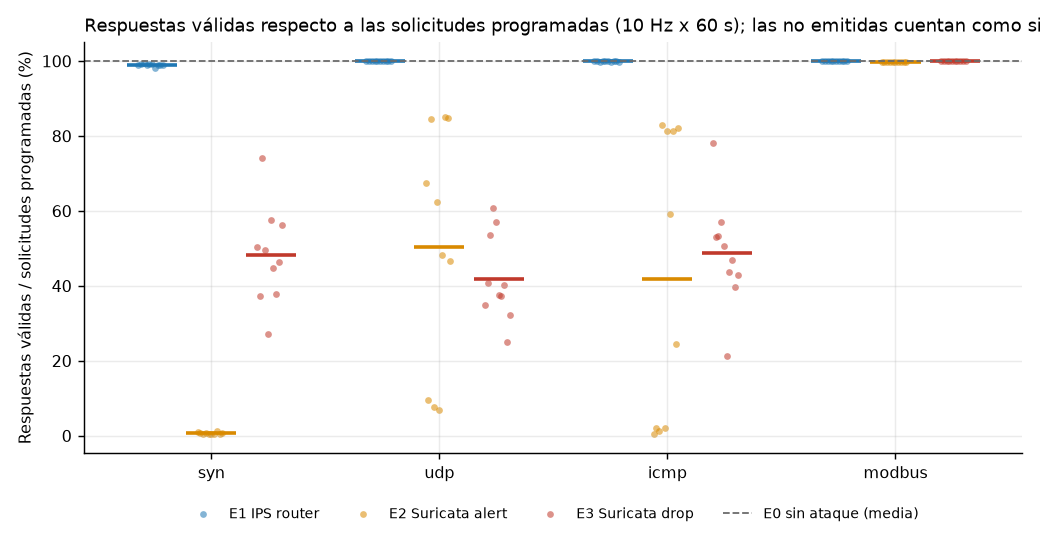
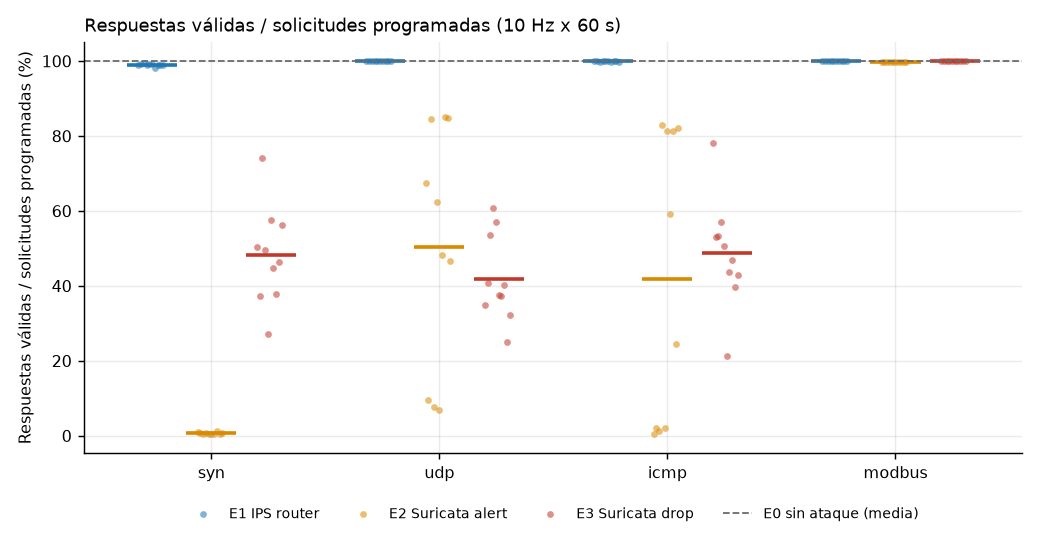
Figura a7: título más corto

Changed region(s): [[0.2462, 0.0311, 1.0, 0.0623]]

diff --git a/lab/analysis/analisis_final.py b/lab/analysis/analisis_final.py
@@ -81,7 +81,7 @@ def strip(metric, ylabel, fname, log=False, title=""):
     ax.set_title(title, loc="left", fontsize=10); ax.legend(frameon=False, fontsize=8, ncol=4, loc="upper center", bbox_to_anchor=(.5, -.1))
     fig.tight_layout(); fig.savefig(f"{FIG}/{A.platform}_{A.profile}_{fname}.png"); plt.close(fig)
 strip("availability_pct", "Disponibilidad del SCADA durante el ataque (%)", "a1_disponibilidad", title=f"Disponibilidad por escenario y ataque ({A.platform}, perfil {A.profile}; punto = corrida, línea = media)")
-strip("resp_vs_programadas_pct", "Respuestas válidas / solicitudes programadas (%)", "a7_respuestas_vs_programadas", title="Respuestas válidas respecto a las solicitudes programadas (10 Hz x 60 s); las no emitidas cuentan como sin respuesta")
+strip("resp_vs_programadas_pct", "Respuestas válidas / solicitudes programadas (%)", "a7_respuestas_vs_programadas", title="Respuestas válidas / solicitudes programadas (10 Hz x 60 s)")
 strip("rtt_p95_ms", "RTT p95 (ms, escala log)", "a2_rtt_p95", log=True, title="Latencia (RTT p95) del tráfico legítimo durante el ataque")
 
 # ---- a3: disponibilidad por segundo respecto al inicio del ataque (de polls.csv) ----
